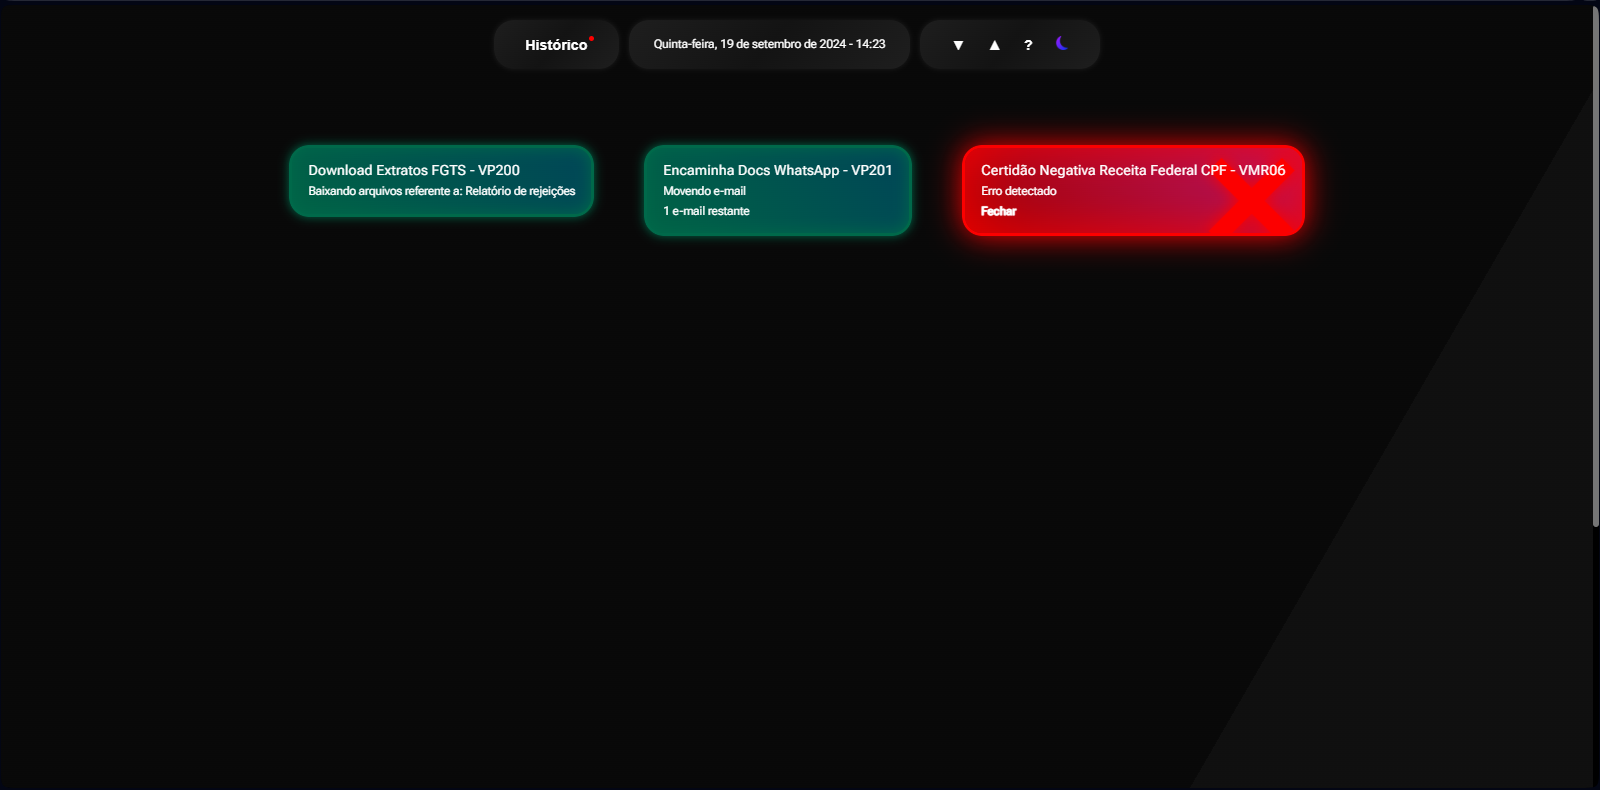
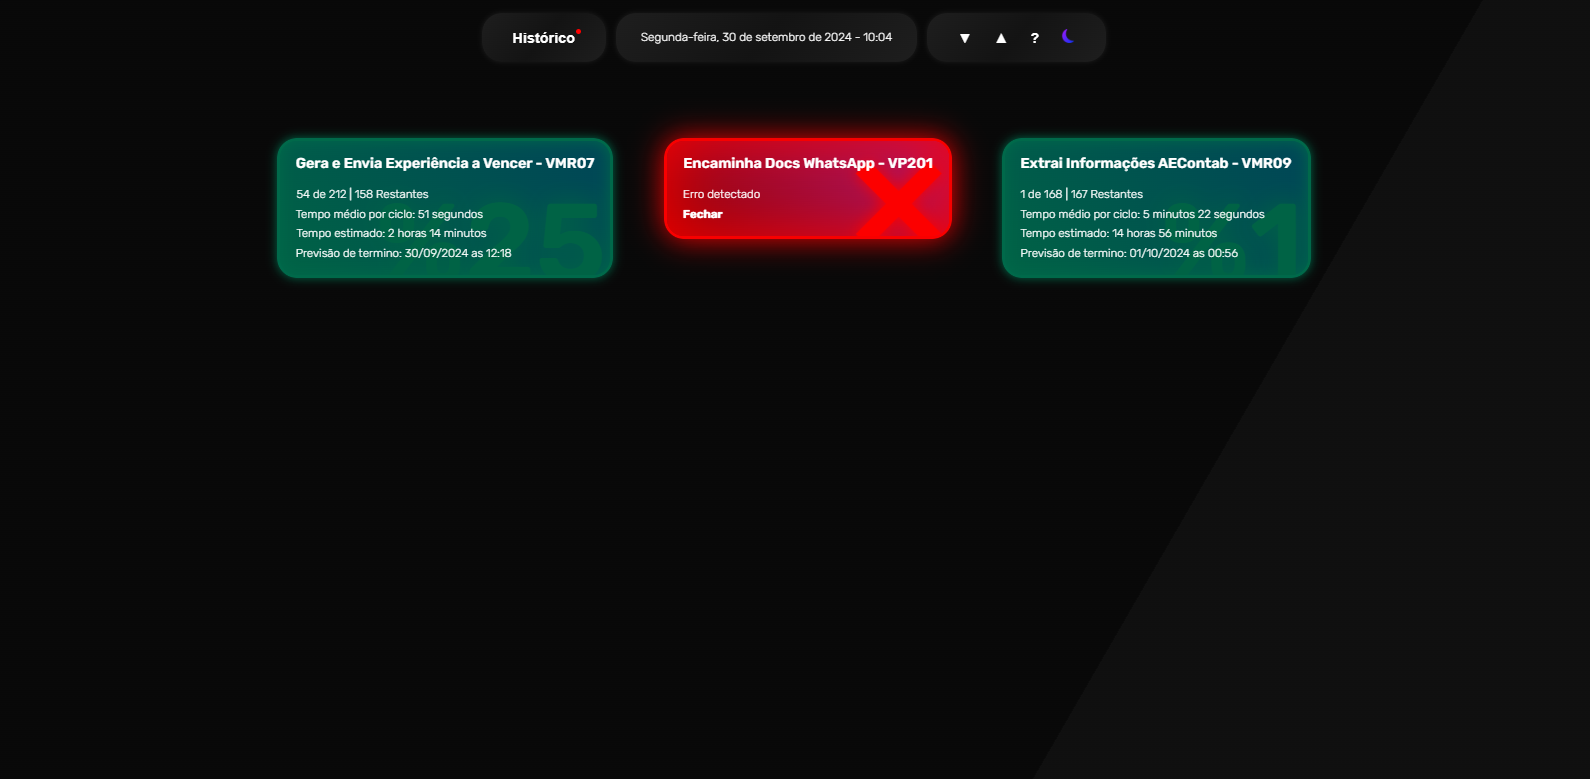
Atualização
Nova fonte e prints do TaskWatch oficial atualizados

diff --git a/css/main.css b/css/main.css
@@ -1,4 +1,4 @@
-@import url('https://fonts.googleapis.com/css2?family=Roboto+Flex:opsz,wght@8..144,100..1000&display=swap');
+@import url('https://fonts.googleapis.com/css2?family=Rubik:ital,wght@0,300..900;1,300..900&display=swap');
 @import url('cabecalho.css');
 @import url('cards.css');
 @import url('historico.css');
@@ -41,7 +41,7 @@
 }
 
 body {
-    font-family: "Roboto Flex", sans-serif;
+    font-family: "Rubik", sans-serif;
     font-weight: 300;
     font-size: 0.9em;
     -webkit-font-smoothing: antialiased;

diff --git a/css/cards.css b/css/cards.css
@@ -157,7 +157,7 @@
 .botaoFechar {
     width: fit-content;
     color: white;
-    font-weight: 700;
+    font-weight: 600;
     text-shadow: 0 0 1px white;
     transition: var(--transicao-link);
 }
@@ -166,7 +166,7 @@
 }
 
 .titulo {
-    font-weight: 700;
+    font-weight: 600;
     font-size: 1em;
     padding: 4px;
     opacity: 1;
@@ -184,7 +184,7 @@
     bottom: -1.8rem;
     right: 0;
     font-size: 7rem;
-    font-weight: bold;
+    font-weight: 600;
     transition: var(--transicao-link);
 }
 
